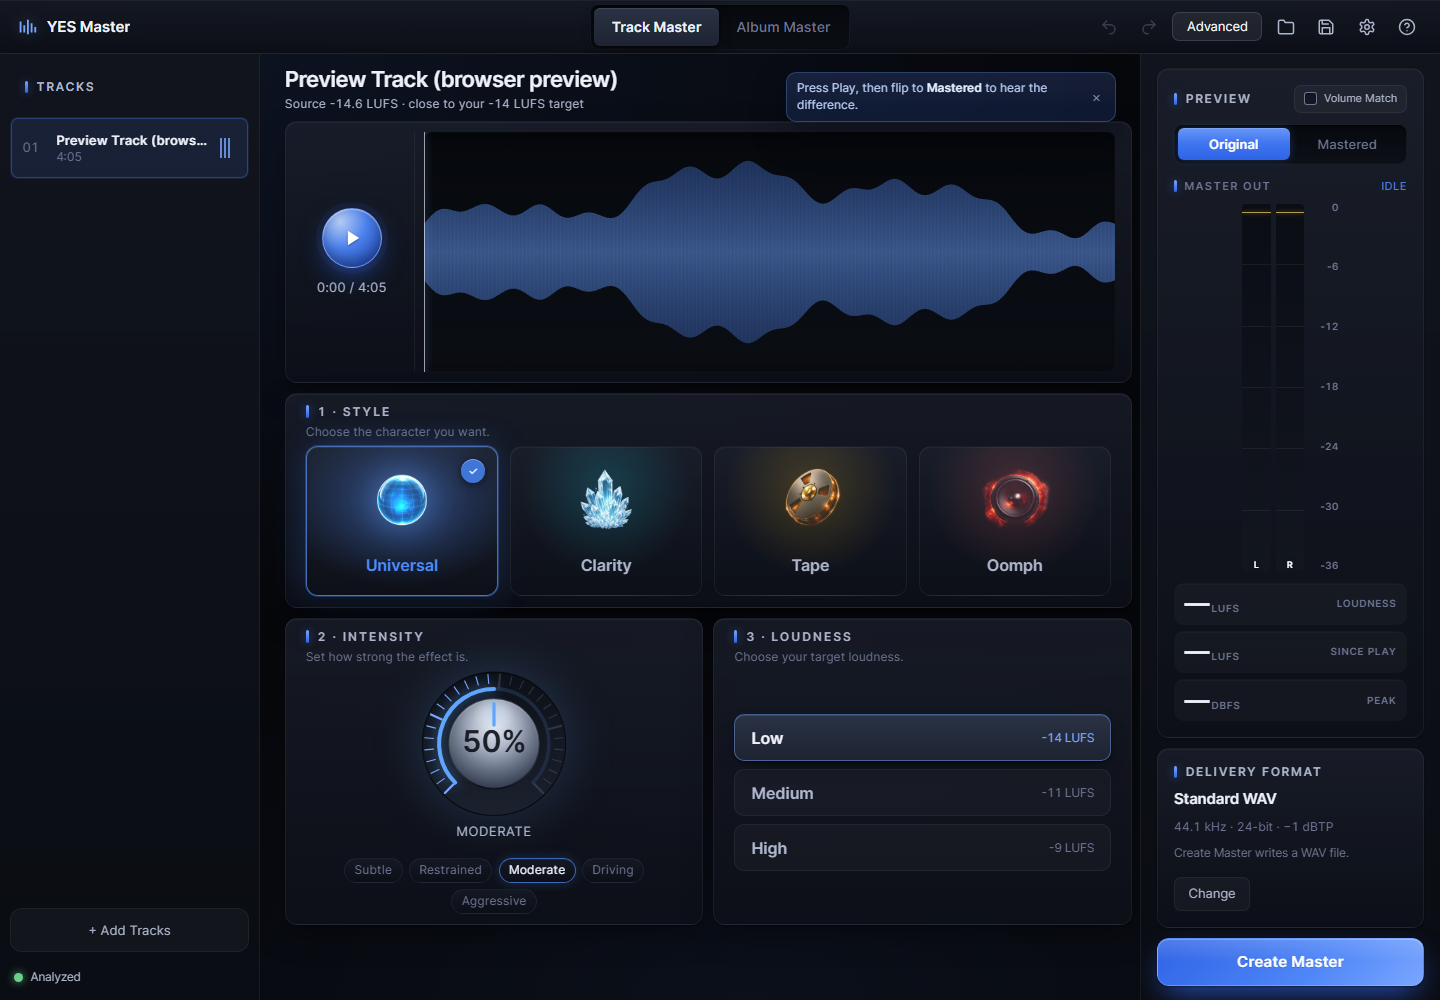
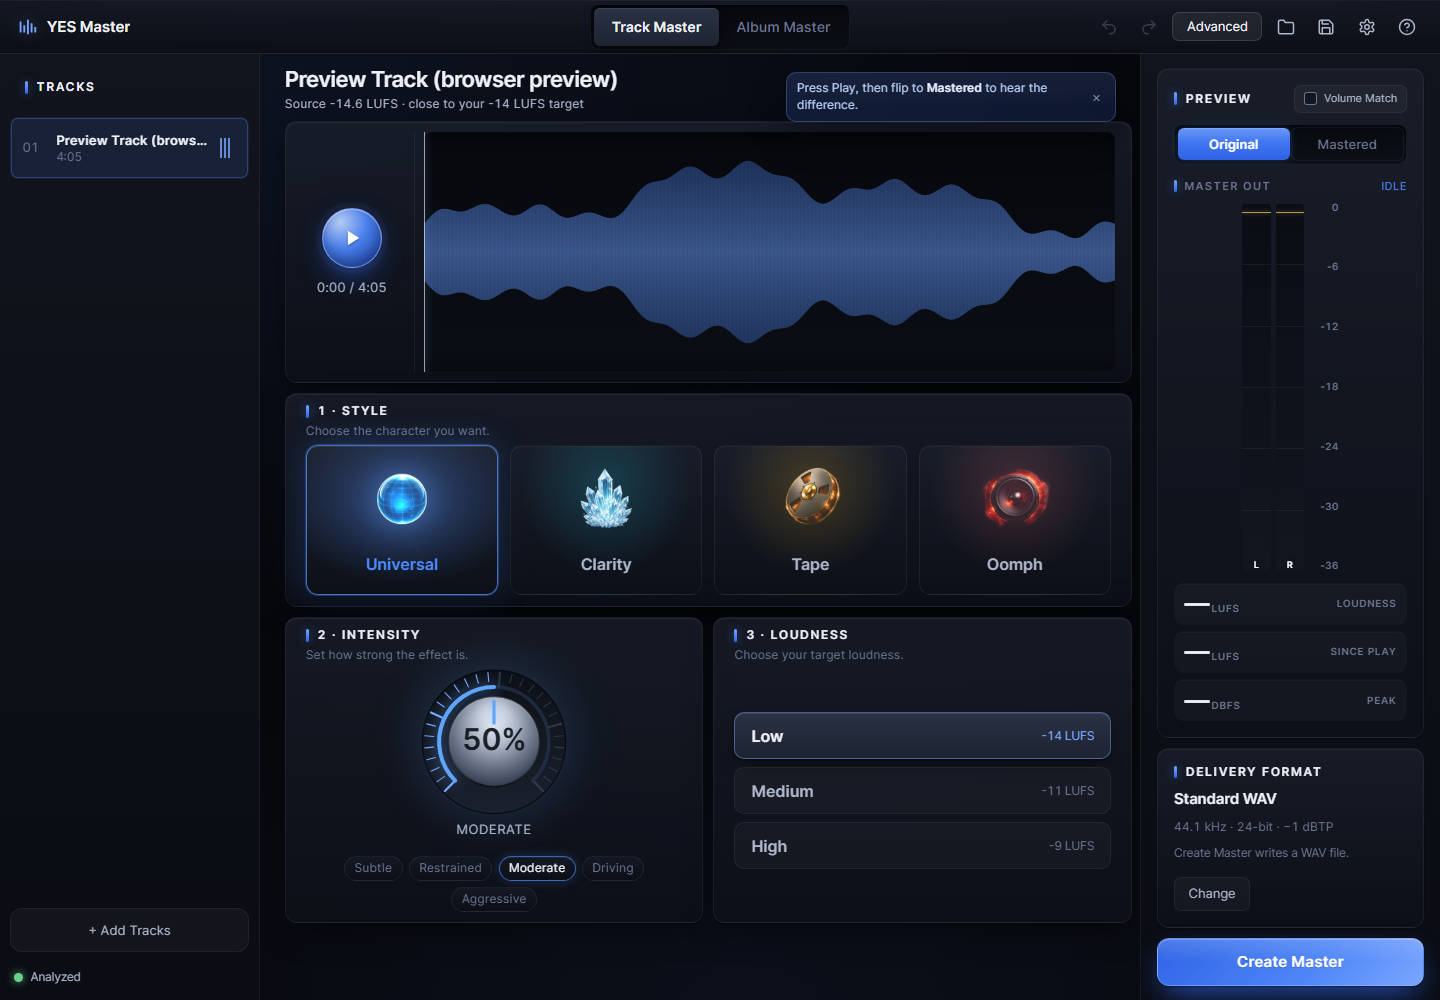
docs+assets: owner tune + Standard-return gate; recapture landing proof

diff --git a/docs/CHANGELOG.md b/docs/CHANGELOG.md
@@ -12,6 +12,22 @@ Dates are milestone dates, not exact commit times.
 
 ---
 
+## 2026-08-19 — Owner tune of the alive pass + Standard-return gate for Advanced-only styles
+
+- **Quieter**: preset tile hover ~40% as dramatic; knob hover glow + drag
+  effect ~30% less; MASTER OUT bars +6% saturation only while Mastered is
+  audible.
+- **One heading rung**: Standard's step labels / rail titles / TRACKS now sit
+  on Advanced's T1 rung (size, weight, white). The ✓ chip on Standard's
+  selected Style tile is gone — border/glow/tinted label already say it.
+- **Advanced→Standard with an Advanced-only style** (Spatial / Warmth /
+  Punch / Loud / custom) now goes through the Back-to-Standard confirm
+  (it used to land on "no style selected"). The dialog names the style and
+  says it becomes Universal at the same intensity/loudness; Reset all on
+  the Advanced rail still keeps the style (`needsStandardReturnReset` /
+  `resetForStandardReturn` in `lib/standard-managed.ts`, pinned by
+  `App.transitions.test.tsx` 7b).
+
 ## 2026-08-19 — Alive pass 1: A/B flip moment, meter ballistics, live GR, console motion
 
 Plan: `docs/superpowers/plans/2026-08-19-ui-alive-pass-1.md` (Passes 2–4

diff --git a/docs/APP_BEHAVIOR.md b/docs/APP_BEHAVIOR.md
@@ -61,6 +61,11 @@ Track Master supports:
   while the master plays. The Original/Mastered flip and the played span of
   the waveform react visually to which source is audible; all such motion
   is presentation-only and respects `prefers-reduced-motion`.
+- Returning from Advanced to Standard confirms first when the track carries
+  Advanced edits **or** an Advanced-only style (Spatial / Warmth / Punch /
+  Loud / custom — Standard has tiles for four styles only). The reset clears
+  the edits and, for an Advanced-only style, lands on Universal at the same
+  intensity and loudness; the dialog says so by name. (2026-08-19)
 - A first-run guide in Standard view: subtle floating coachmarks that walk a
   new user to the Original→Mastered flip, then a send-off and one Advanced
   pointer. Dismissible, never blocking, persisted under
